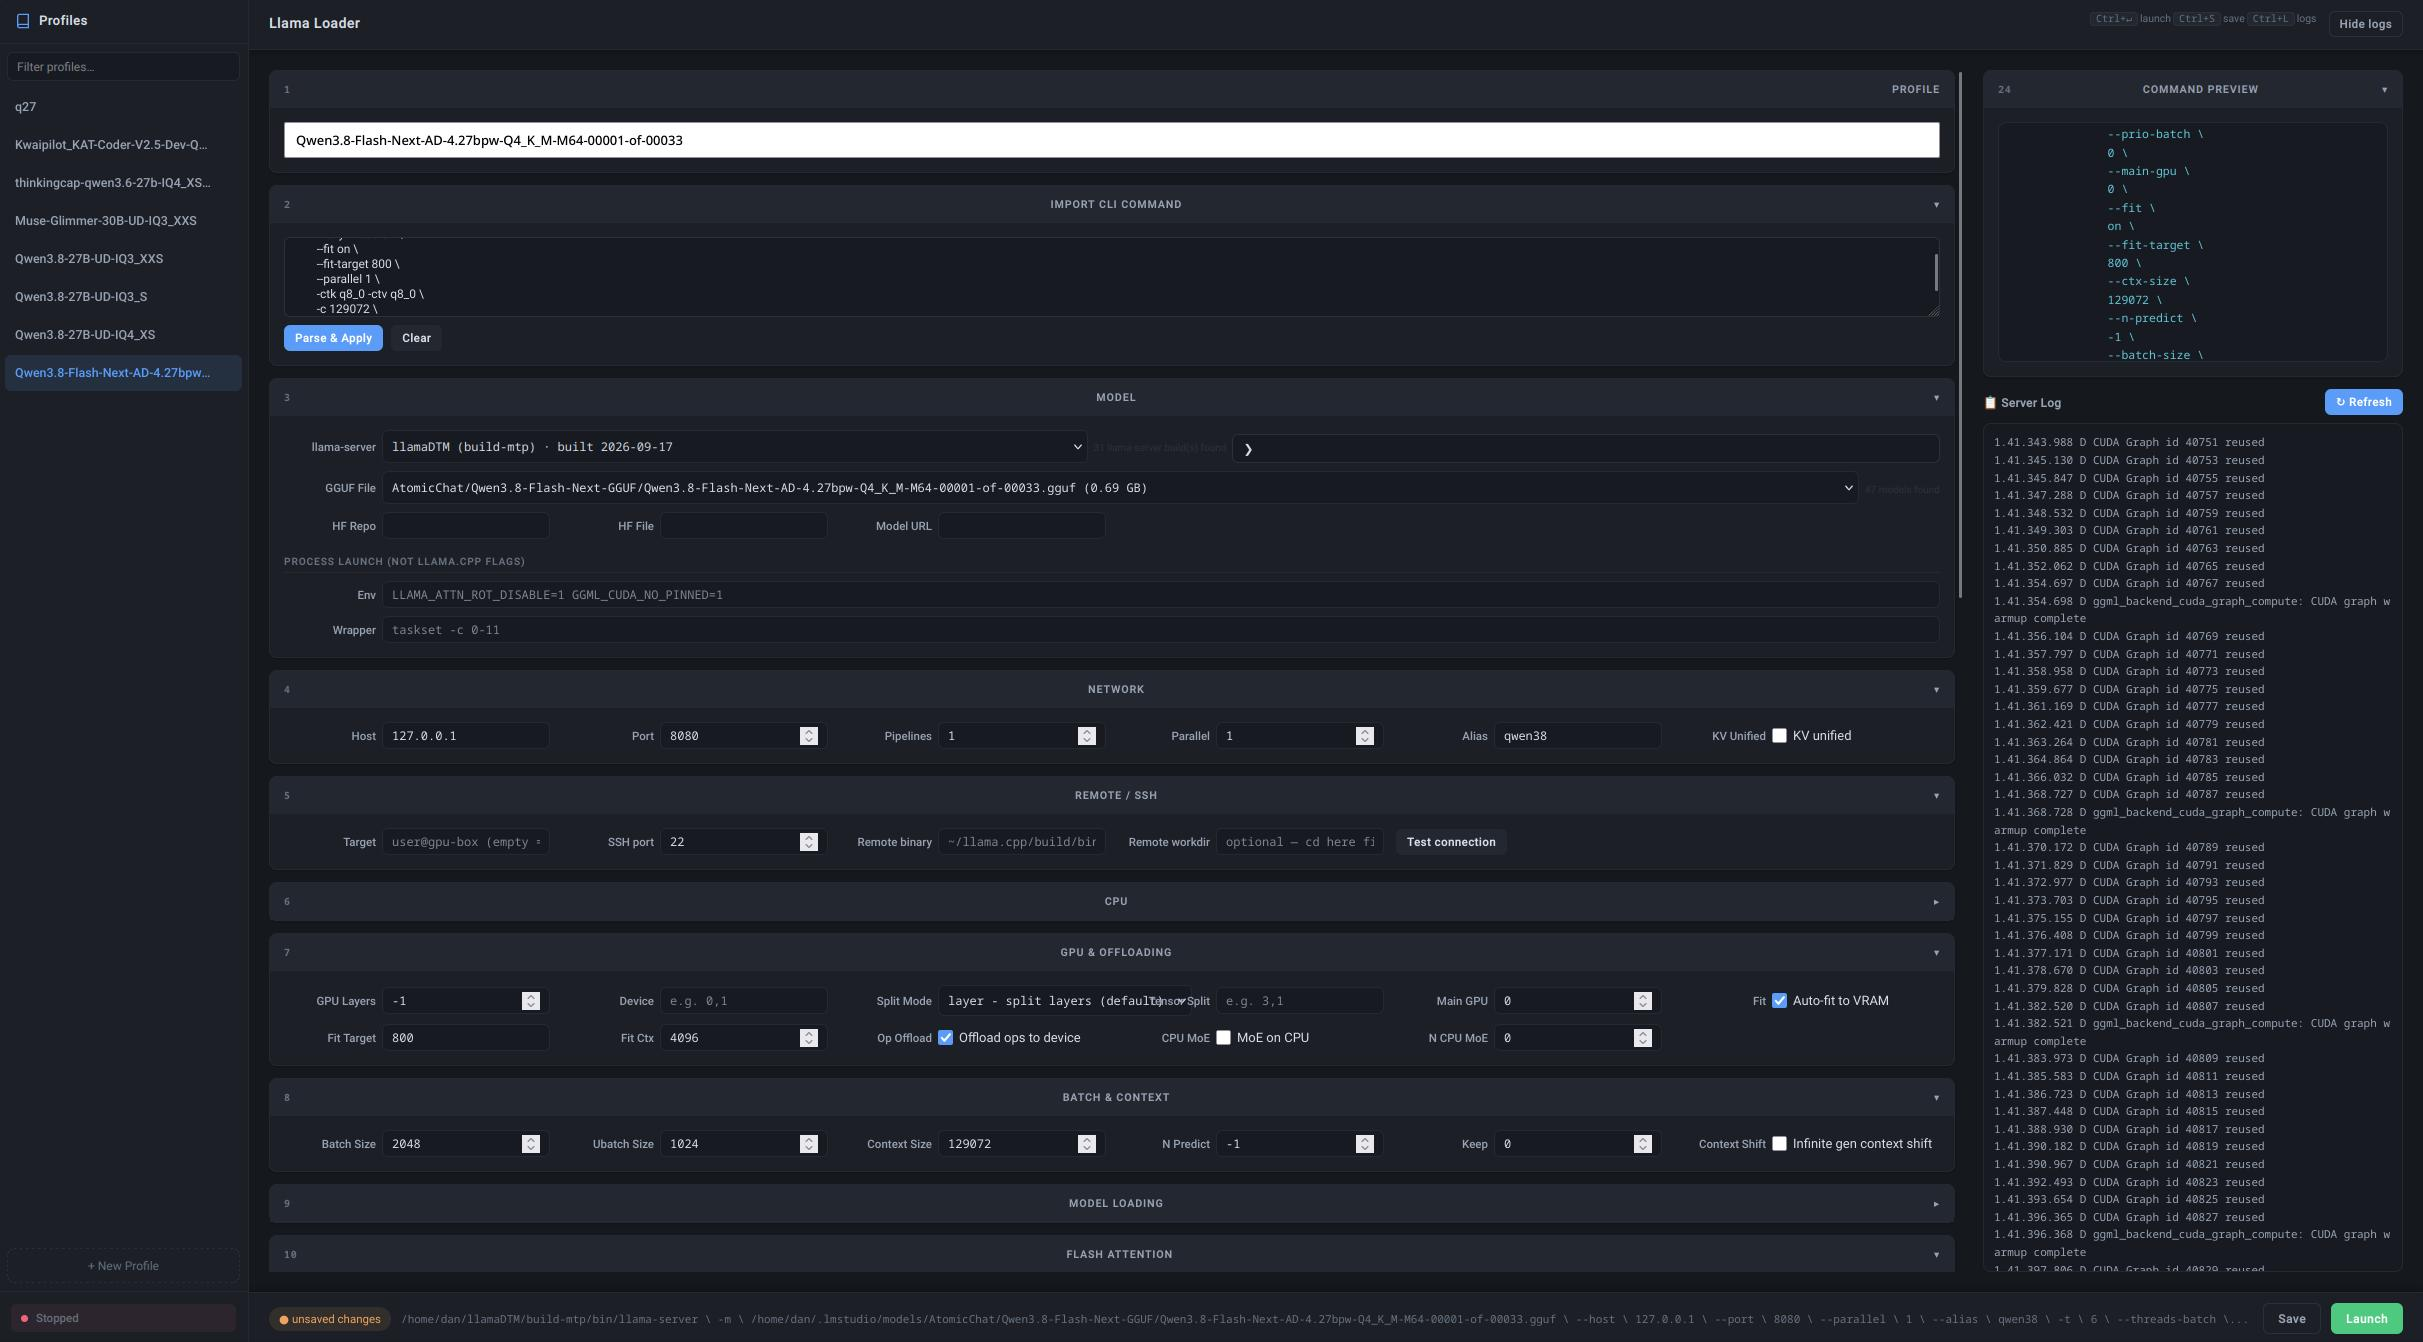
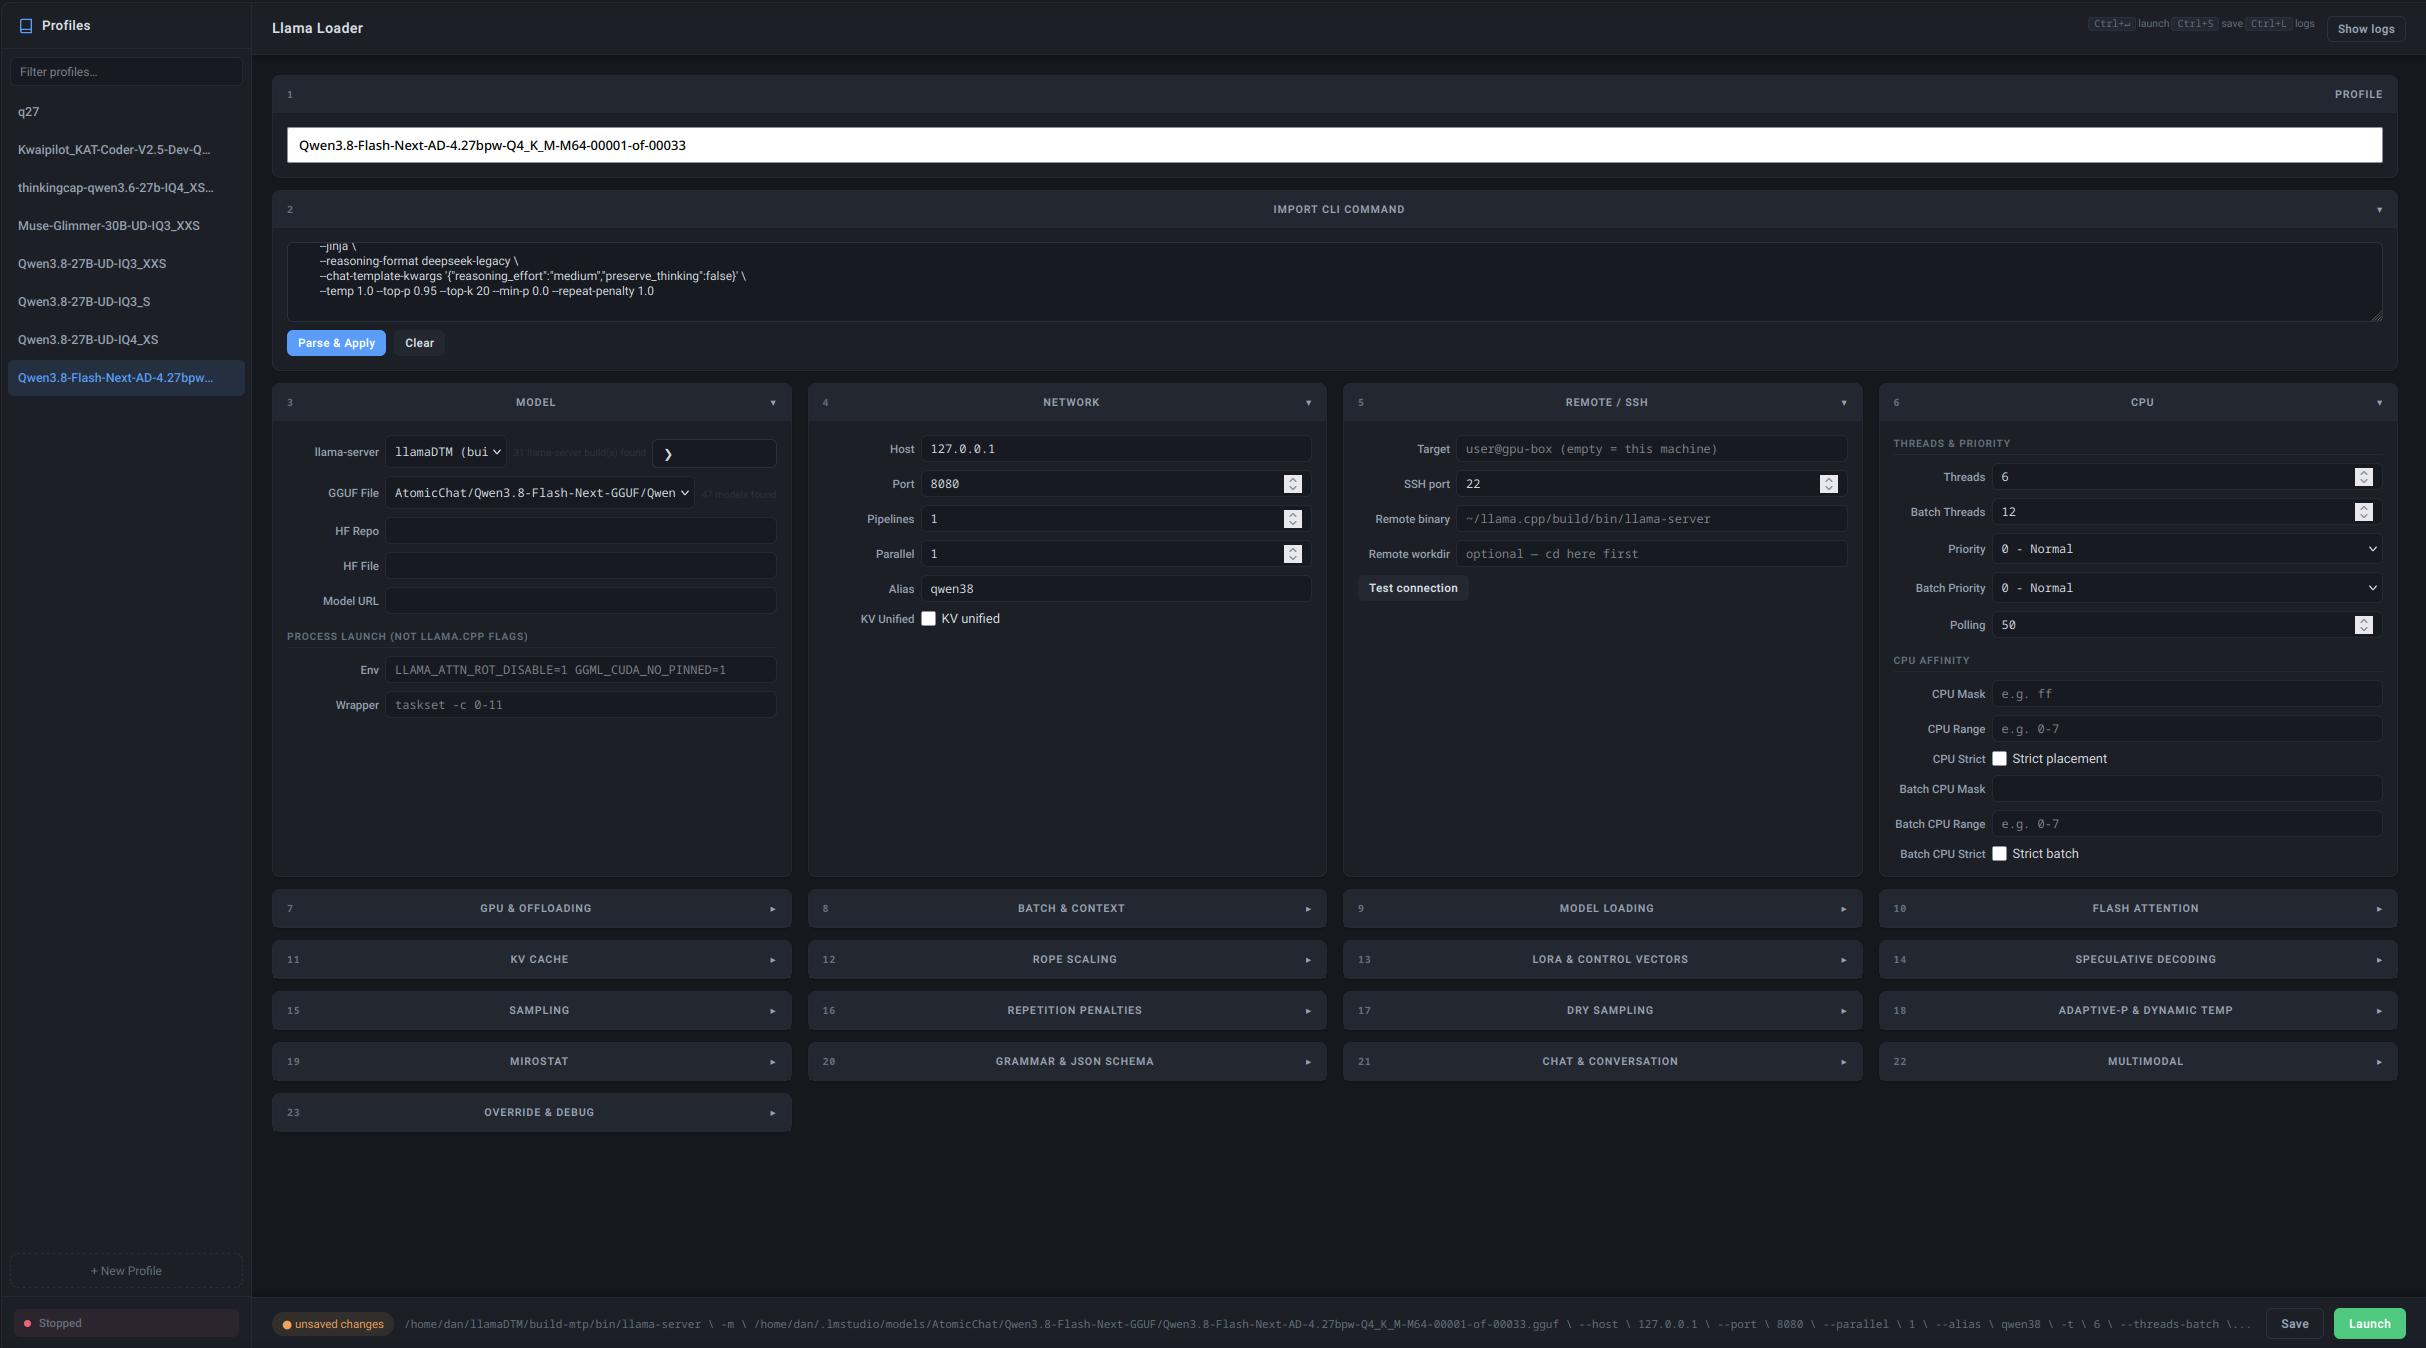
README: second screenshot — the default (no-log-rail) view
docs/screenshot.jpg is now the wide default view the app opens in on a
>=1500px screen: log rail off, all 23 setting sections collapsed, flowing
two-up, launch bar pinned. docs/screenshot-logs.jpg (was screenshot.jpg) is
the rail-visible view: one-column form + Command Preview + server log tail.
Each gets a one-line caption so the two differ visibly on the GitHub page.

Owner-supplied, added unmodified (md5-checked). OCR'd before publishing like
the first one: no absolute paths, usernames, hostnames/IPs, tokens or keys —
empty SSH/network fields, model-name profiles only.

diff --git a/README.md b/README.md
@@ -9,9 +9,20 @@ line, starts it, tails its log, and stops it. Model files and the
 `llama-server` binary itself are yours; nothing here talks to any service
 outside your machine(s).
 
-![Llama Loader GUI: profile list on the left, grouped settings (model, network,
-SSH target, GPU offloading, batch/context) in the middle, command preview and
-server log tail on the right, with Save/Launch pinned to the bottom bar](docs/screenshot.jpg)
+Default view — every setting section collapsible, flowing in two columns on a
+wide screen, command preview and launch pinned to the bottom bar:
+
+![Llama Loader GUI default (wide) view: profile list on the left; settings —
+model, network, remote/SSH, CPU, GPU offloading, batch/context, sampling and
+more — as collapsible sections flowing two-up; Save/Launch pinned to the bottom
+bar](docs/screenshot.jpg)
+
+With the log rail shown (one click, or screens under 1500px): the form moves to
+one column and the right rail carries the live command preview and the
+`llama-server` log tail:
+
+![Llama Loader GUI with the log rail visible: one-column form on the left,
+Command Preview and the rolling server log on the right](docs/screenshot-logs.jpg)
 
 ## Features
 
